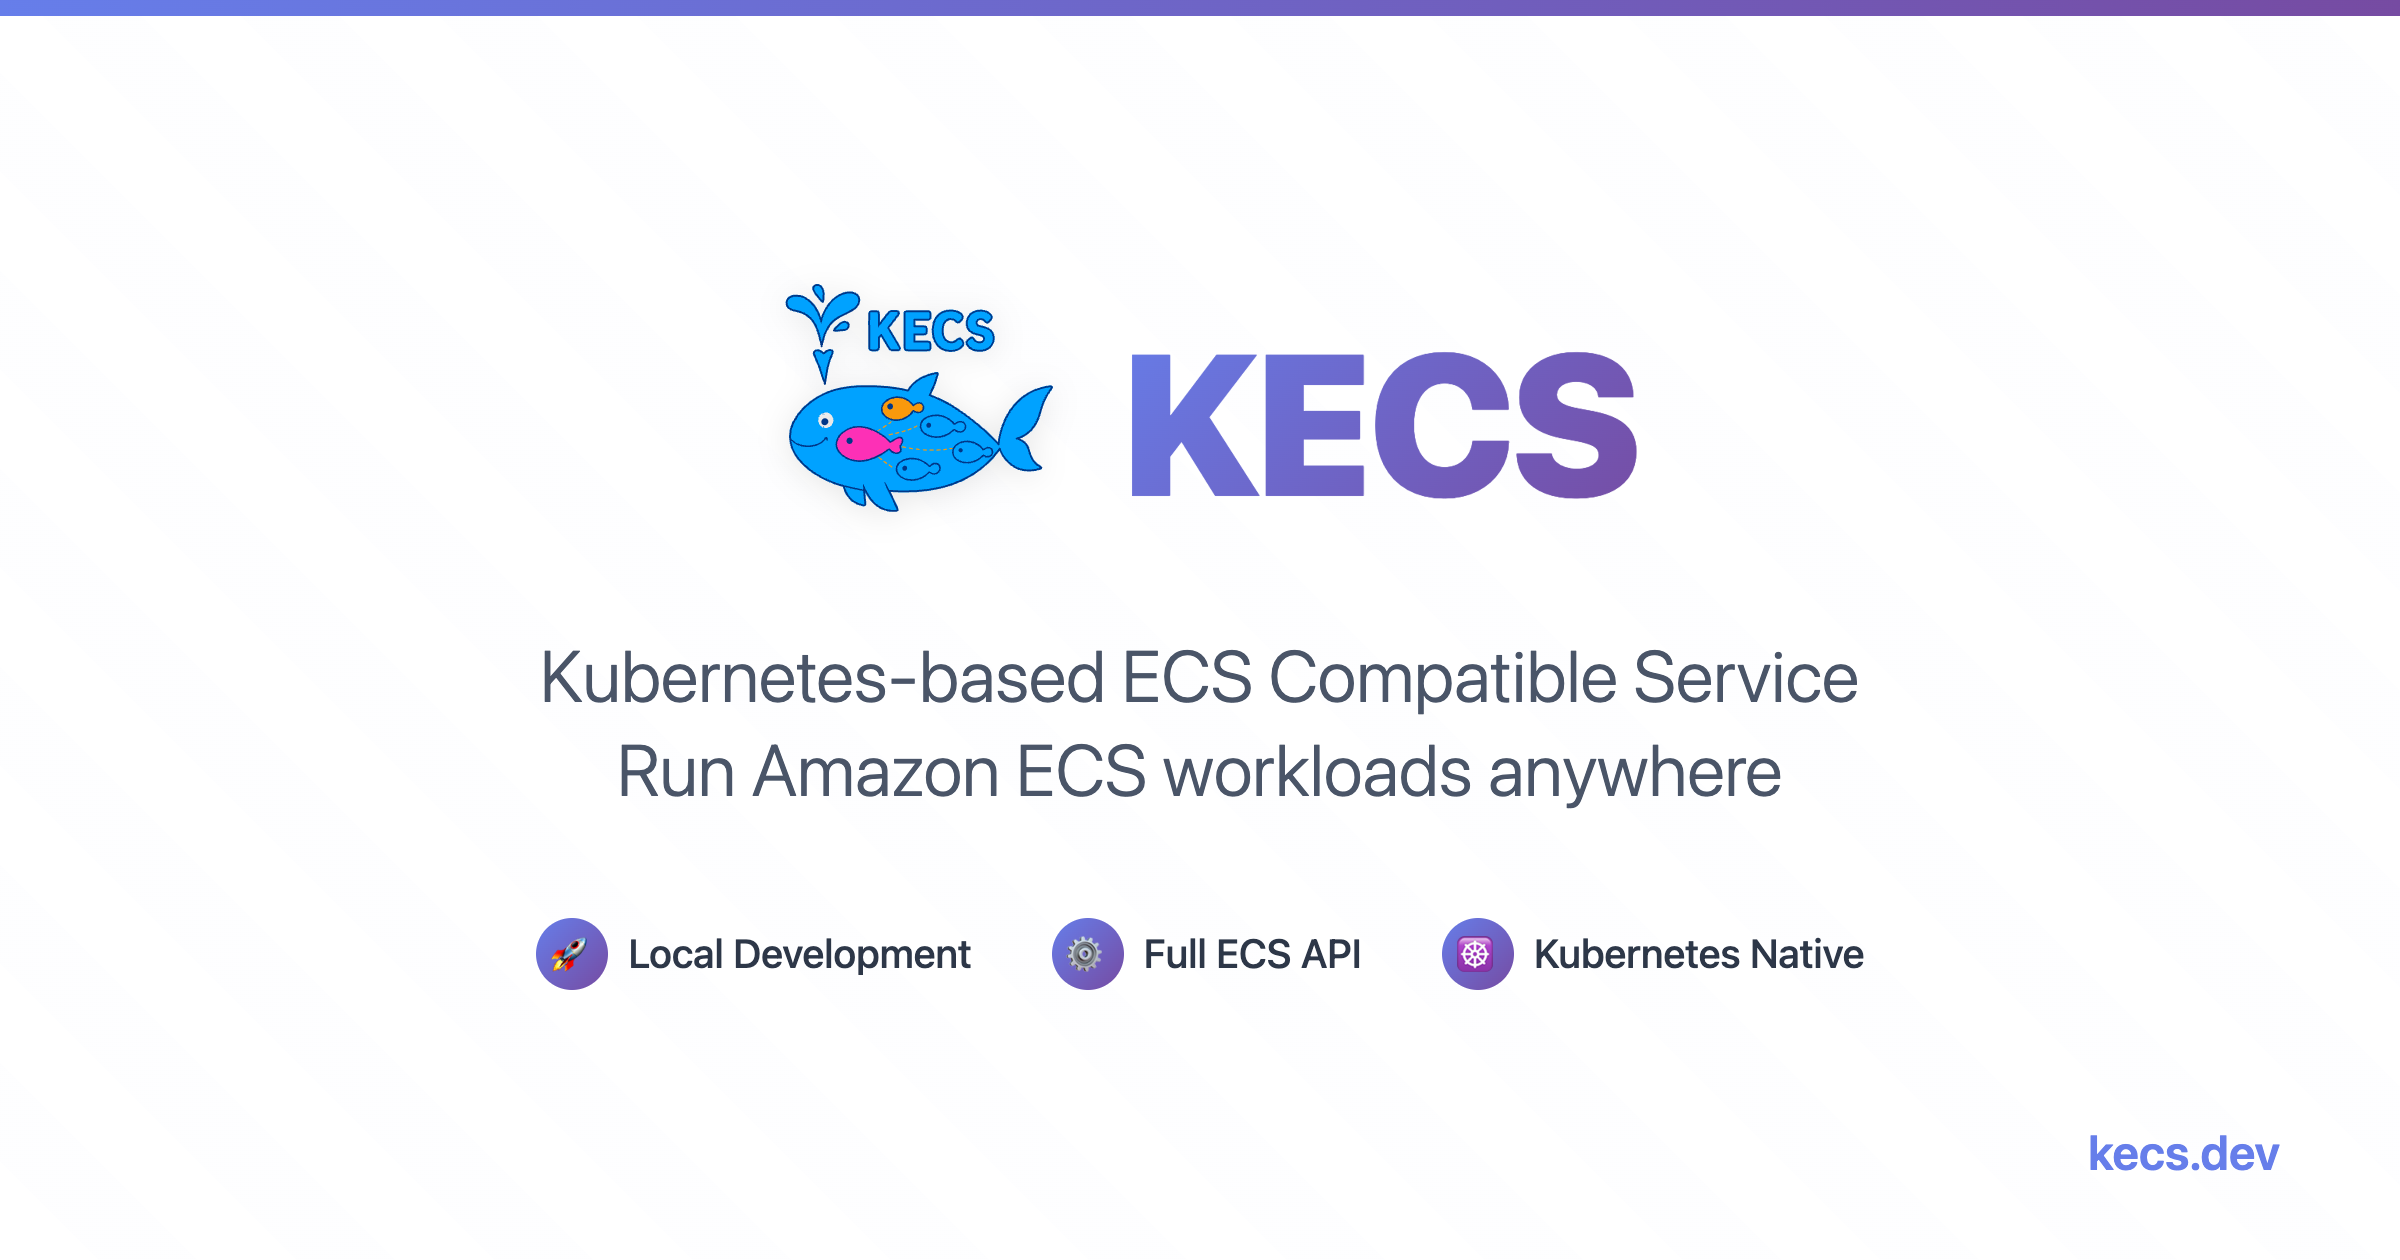
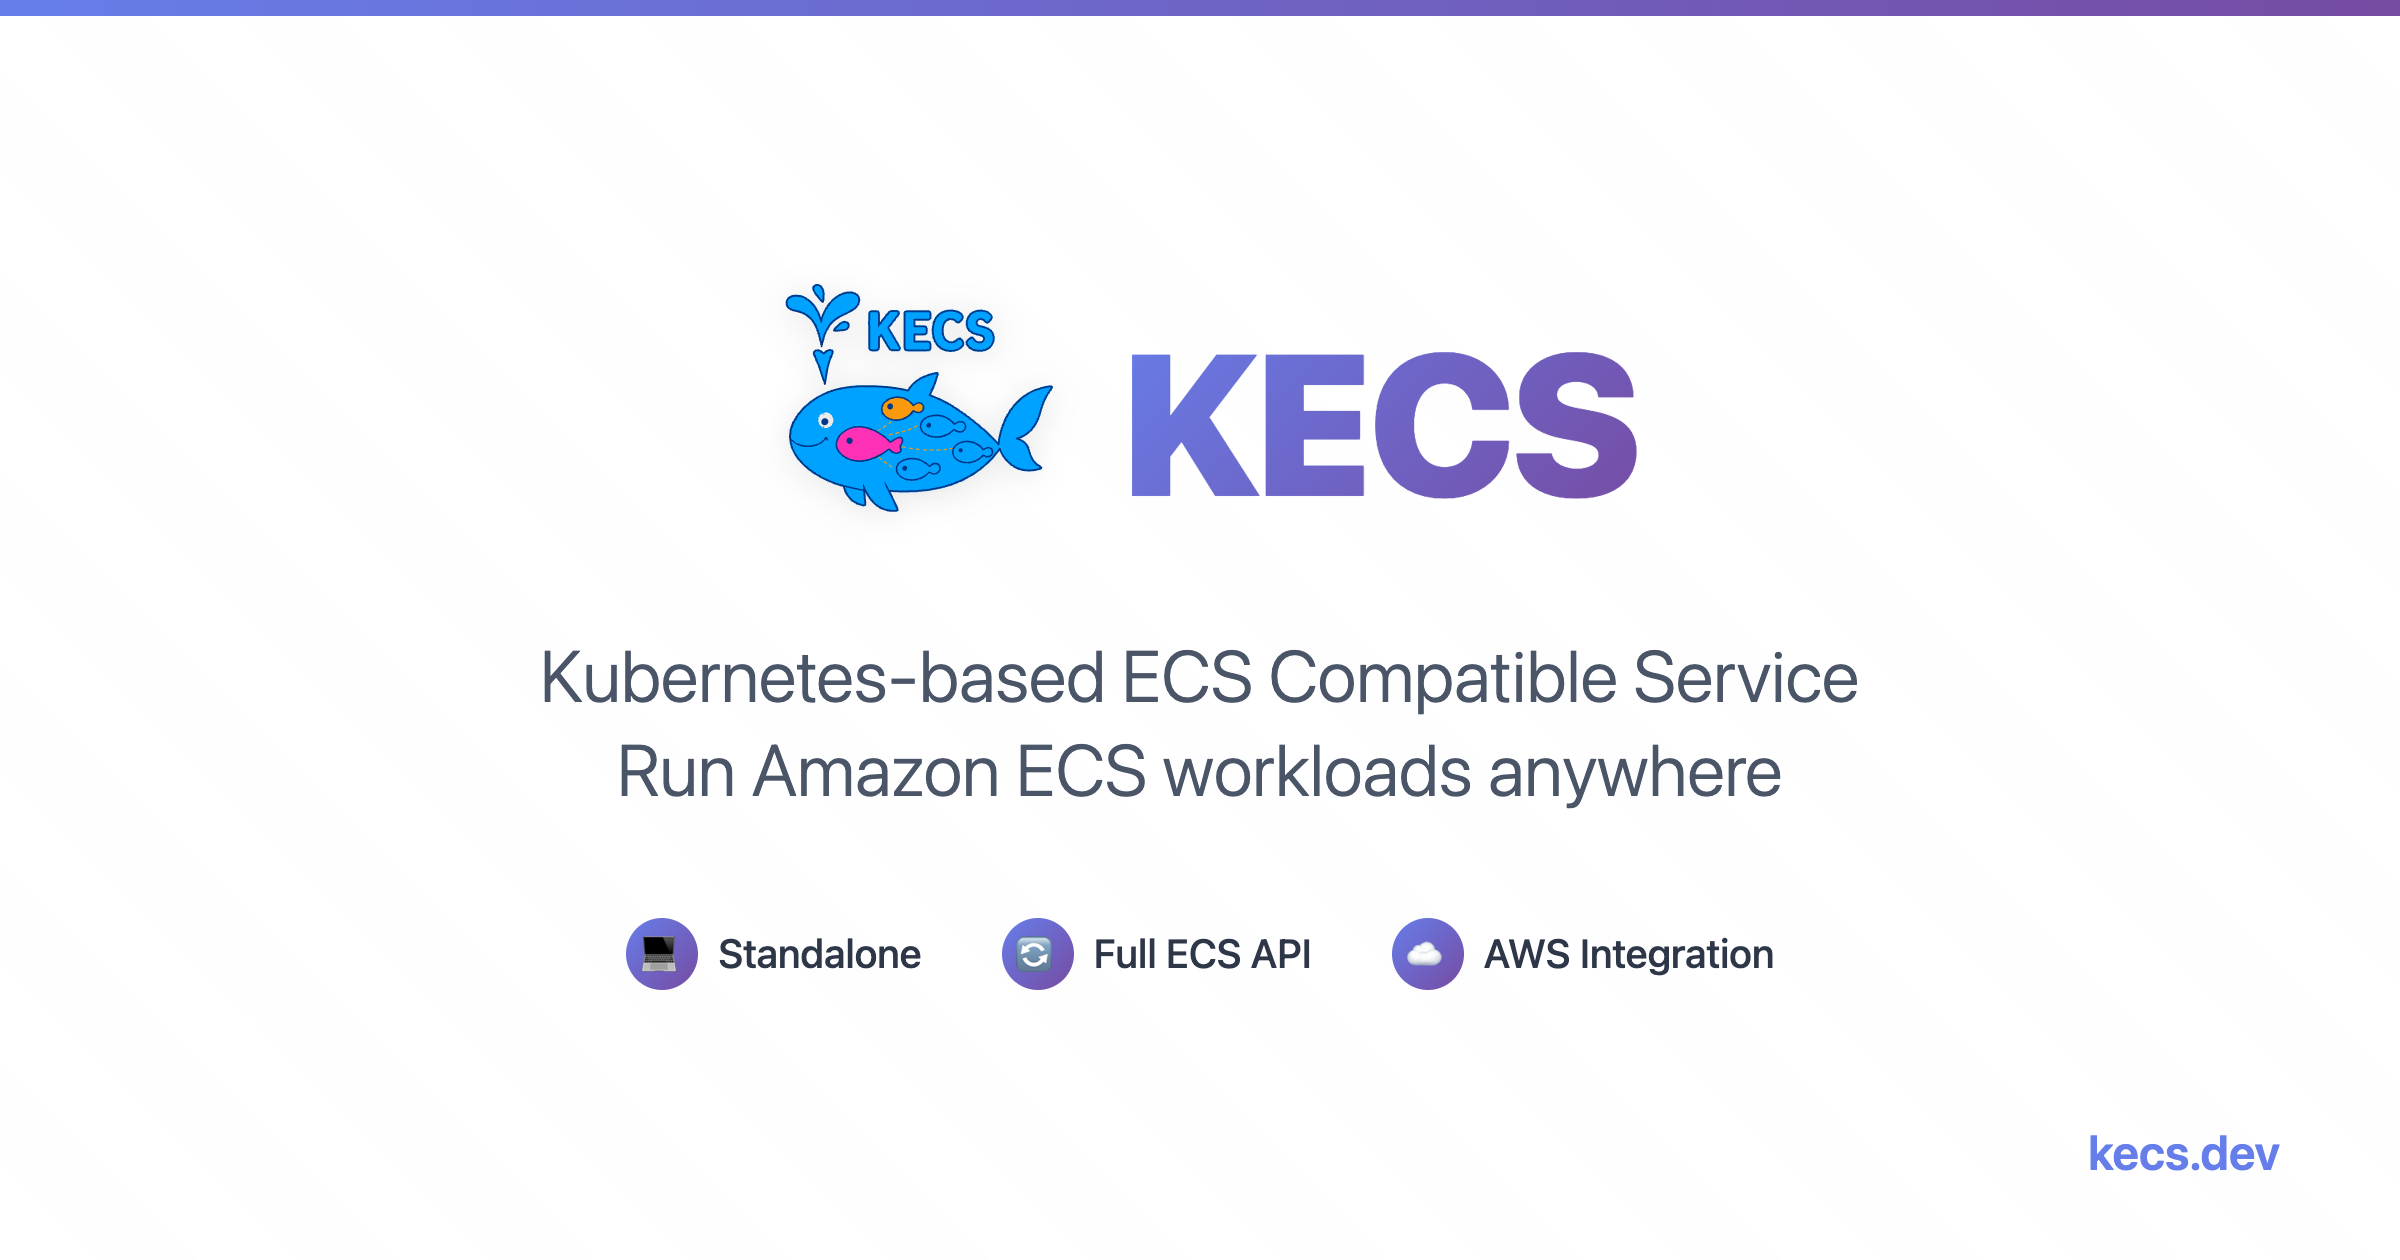
feat: Update OGP features to emphasize standalone and AWS integration
- Replaced "Local Development" with "Standalone" to emphasize independence
- Changed "Kubernetes Native" to "AWS Integration" for better value proposition
- Updated icons to better represent each feature

The three key features now highlighted:
1. Standalone - Works independently without external dependencies
2. Full ECS API - Complete compatibility with Amazon ECS APIs
3. AWS Integration - Transparent integration with AWS services

This better communicates KECS's unique value:
- Can run completely standalone
- Provides full ECS compatibility
- Enables seamless AWS service integration when needed

🤖 Generated with [Claude Code](https://claude.ai/code)

Changed region(s): [[0.2188, 0.7119, 0.7812, 0.8048]]

diff --git a/docs-site/public/og-template.html b/docs-site/public/og-template.html
@@ -133,16 +133,16 @@
         </div>
         <div class="features">
             <div class="feature">
-                <div class="feature-icon">🚀</div>
-                <span>Local Development</span>
+                <div class="feature-icon">💻</div>
+                <span>Standalone</span>
             </div>
             <div class="feature">
-                <div class="feature-icon">⚙</div>
+                <div class="feature-icon">🔄</div>
                 <span>Full ECS API</span>
             </div>
             <div class="feature">
-                <div class="feature-icon">☸</div>
-                <span>Kubernetes Native</span>
+                <div class="feature-icon">☁</div>
+                <span>AWS Integration</span>
             </div>
         </div>
     </div>
